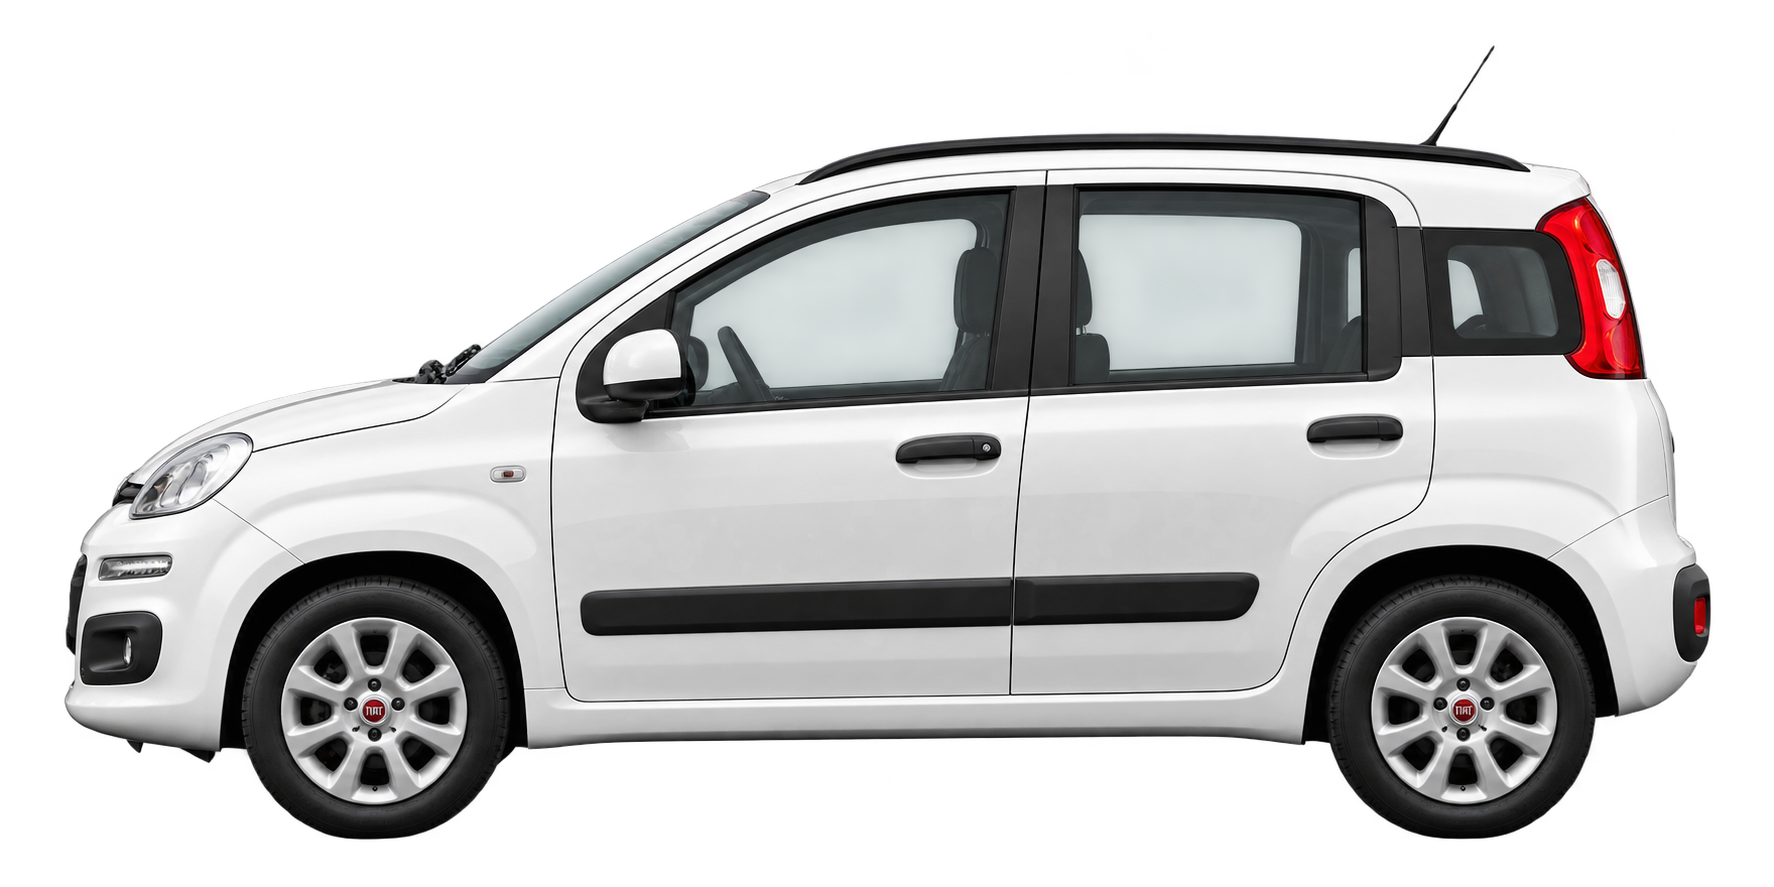
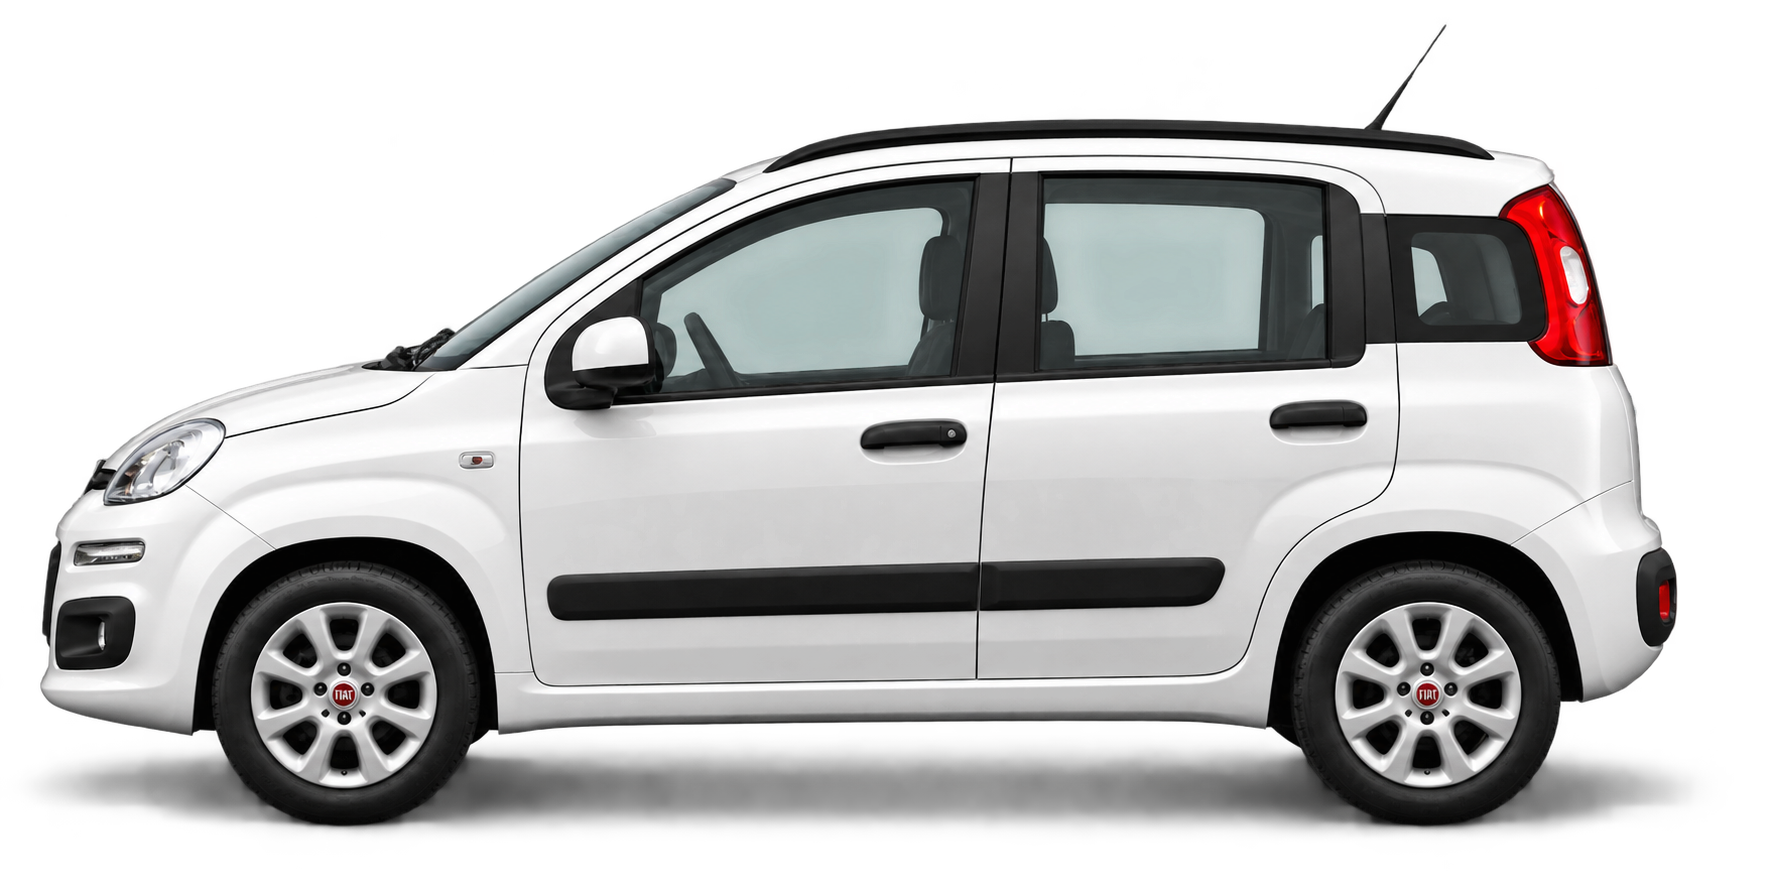
Update Tipo, Panda and Citigo photos; drop the CSS car shadow
The new fleet photos have a ground shadow baked in, so the CSS
drop-shadow on fleet card and modal images is removed (also from the
Ford Transit, to keep all four cards consistent).

diff --git a/src/components/sections/Fleet/Fleet.module.css b/src/components/sections/Fleet/Fleet.module.css
@@ -84,9 +84,6 @@
    back a touch on press, and the CTA button turns brand orange. */
 .fleetImage {
   object-fit: contain;
-  /* Ground shadow following the car's silhouette (transparent PNG): a tight
-     contact shadow plus a wider soft one. */
-  filter: drop-shadow(0 6px 4px rgba(0, 0, 0, 0.16)) drop-shadow(0 16px 16px rgba(0, 0, 0, 0.1));
   transition: transform 300ms ease;
 }
 

diff --git a/src/components/sections/Fleet/VehicleDetailsModal.module.css b/src/components/sections/Fleet/VehicleDetailsModal.module.css
@@ -133,8 +133,6 @@
 .image {
   object-fit: contain;
   padding: 24px;
-  /* Same ground shadow as the fleet cards. */
-  filter: drop-shadow(0 6px 4px rgba(0, 0, 0, 0.16)) drop-shadow(0 16px 16px rgba(0, 0, 0, 0.1));
 }
 
 .info {
